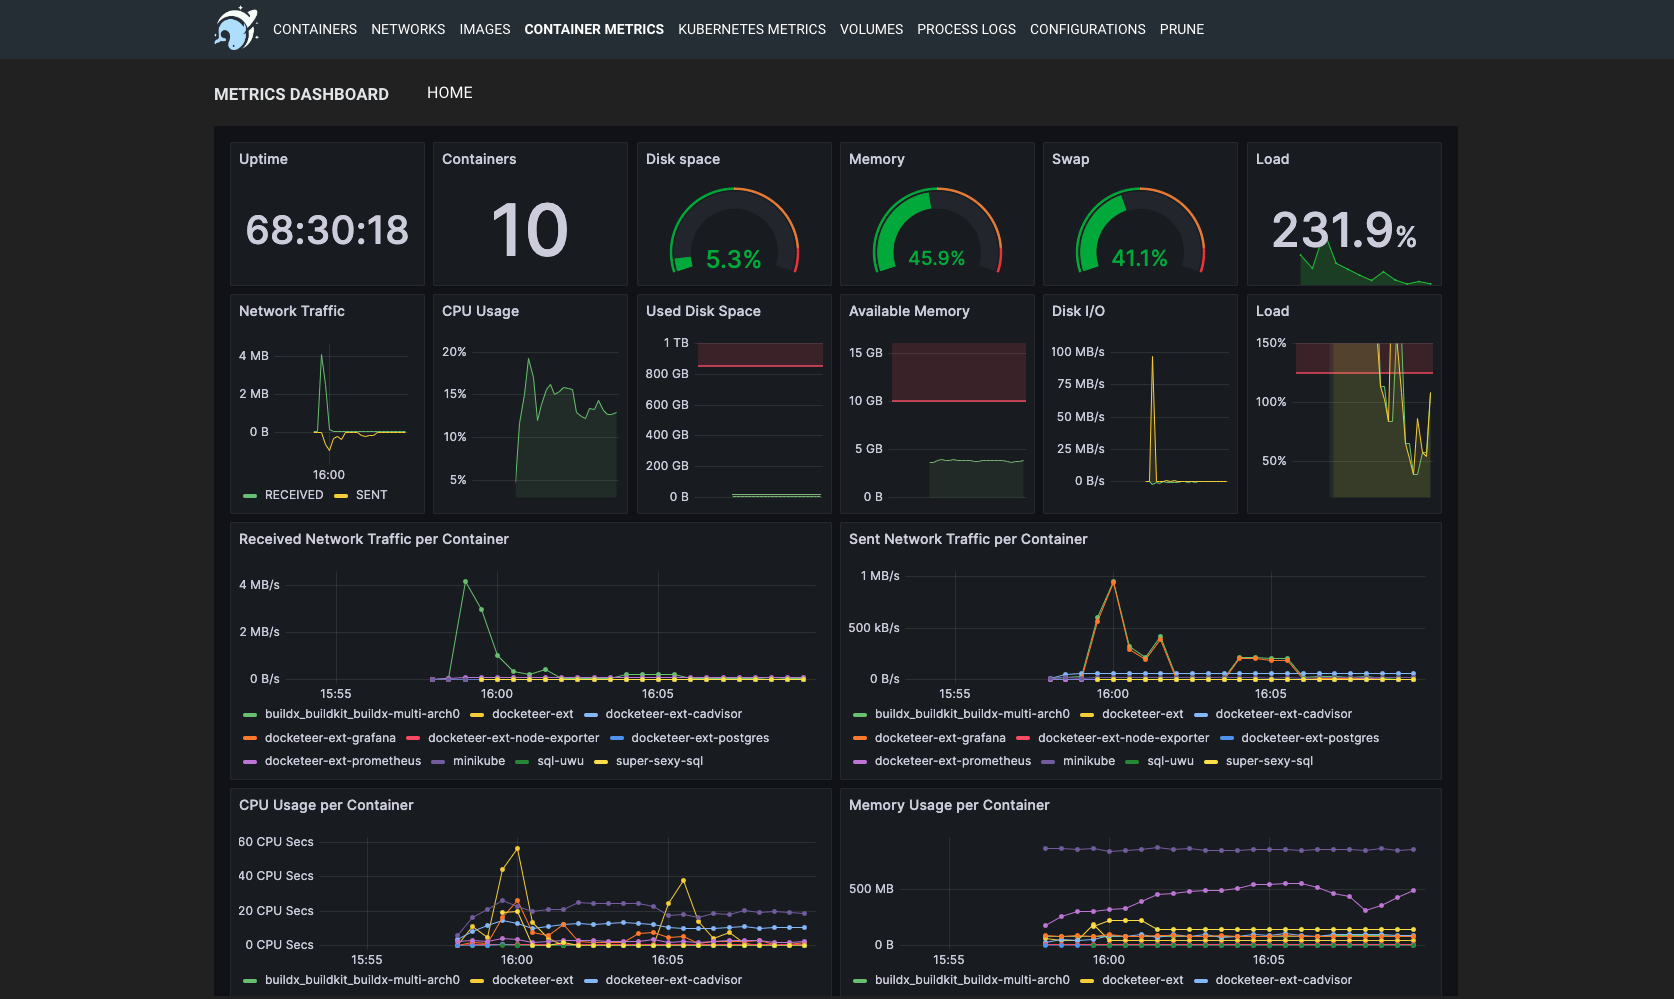
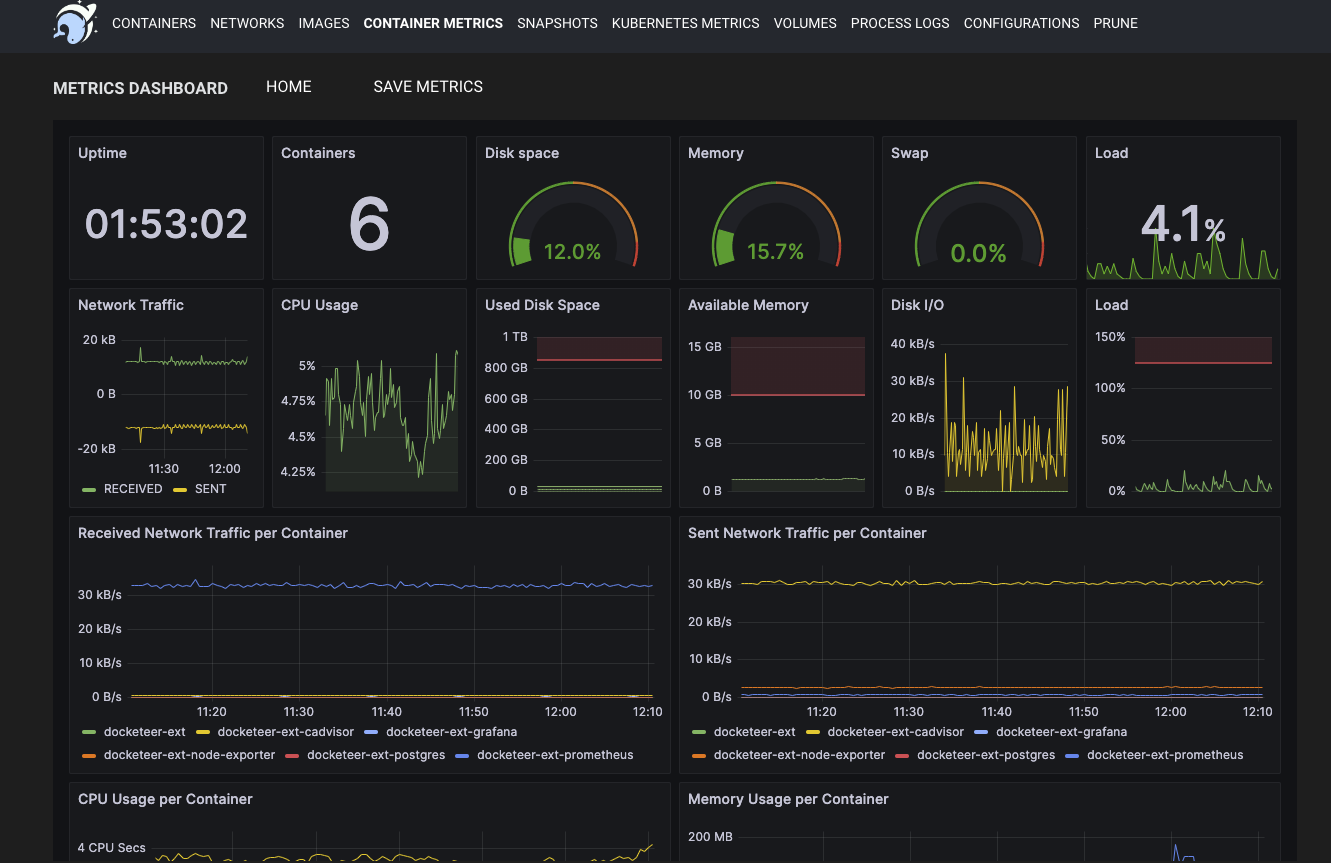
got the saveMetrics routes to work

diff --git a/ui/src/components/Metrics/Snapshots.tsx b/ui/src/components/Metrics/Snapshots.tsx
@@ -45,38 +45,7 @@ const Snapshots = (): JSX.Element => {
       updateDateRight(optionValue)
     }
     console.log('valueSelected', optionValue);
-
-    // getSnapshotDB(optionValue, dropDownSide);
   }
-
-  // const getSnapshotDB = (date, dropDownSide:string) => {
-  //   fetch(`http://localhost:3000/api/saveMetricsEntry/snapshot/${date}`)
-  //     .then((data) => data.json())
-  //     .then((data) => {
-  //       console.log(data)
-  //       displaySnapshot(data, dropDownSide);
-  //     })
-  //     .catch((err) => console.log(err));
-  // }
-  
-  // const displaySnapshot = (metrics, dropDownSide) => {
-  //   const dataArray: JSX.Element[] = [];
-  //   for (const key in metrics) {
-  //     dataArray.push(
-  //       <label>
-  //         <p>
-  //           {key}: {metrics[key]}
-  //         </p>
-  //       </label>
-  //     );
-  //   }
-  //   if (dropDownSide === 'left') {
-  //     updateSnapshotLeft(dataArray);
-  //   }
-  //   else if (dropDownSide === 'right'){
-  //     updateSnapshotRight(dataArray);
-  //   }
-  // }
 
   useEffect(() => {
       getDates();
@@ -99,7 +68,6 @@ const Snapshots = (): JSX.Element => {
         >
           RETRIEVE SNAPSHOT
         </button>
-        {/* <div className={styles.snapshotContent}>{snapshotLeft}</div> */}
         <div className={styles.snapshotContent}>
           <iframe
             className={styles.metrics}
@@ -119,7 +87,6 @@ const Snapshots = (): JSX.Element => {
         >
           RETRIEVE SNAPSHOT
         </button>
-        {/* <div className={styles.snapshotContent}>{snapshotRight}</div> */}
         <div className={styles.snapshotContent}>
           <iframe
             className={styles.metrics}

diff --git a/ui/src/models/docker/ContainerService.ts b/ui/src/models/docker/ContainerService.ts
@@ -62,7 +62,7 @@ export const ContainerService = {
       return {stdout: [], stderr: []};
     }
   },
-  async fetchDates(containerId?: string): Promise<any> {
+  async fetchDates(): Promise<any> {
     try {
       const data = await ddClientRequest(`/api/saveMetricsEntry/date`, 'GET');
       return data;

diff --git a/docs/DevWorkingWithGrafana.md b/docs/DevWorkingWithGrafana.md
@@ -10,7 +10,7 @@
 
 * ***datasources*** tells Grafana where to look for metrics. You'll see that it is already set up to query the Prometheus instance on port 9000 (see the Docketeer Config Diagram in ***/docs/assets/docketeer-config.png***). Do not change this file.
 
-* ***dashboards*** contains our JSON and yaml files that build our dahboards. These are the primary files to edit if you want to change the dashboards or create a new one. The yaml file tells Grafana where to fetch the files to build our dashboards, and what datasource we are using for our panels and queries. Each JSON file will build a seperate dashboard for use to use as an embedded iframe in Docketeer. Currently there are 3: ***dashboard.json*** which is used in the Containers tab, ***docker_metrics.json*** which is used in the Container Metrics tab, and ***k8s-views-nodes.json*** which is used in the Kubernetes Metrics tab. Each JSON file is thousands of lines long, and has many configurations to achieve the graphs we have. To edit, or add panels, the primary method is to navigate to the Grafana and Prometheus endpoints, and to use the Grafana GUI.
+* ***dashboards*** contains our JSON and yaml files that build our dahboards. These are the primary files to edit if you want to change the dashboards or create a new one. The yaml file tells Grafana where to fetch the files to build our dashboards, and what datasource we are using for our panels and queries. Each JSON file will build a seperate dashboard for use to use as an embedded iframe in Docketeer. Currently there are 4: ***dashboard.json*** which is used in the Containers tab, ***docker_metrics.json*** which is used in the Container Metrics tab, ***snapshot-dashboard.json*** which is used in the Snapshot tab, and ***k8s-views-nodes.json*** which is used in the Kubernetes Metrics tab. Each JSON file is thousands of lines long, and has many configurations to achieve the graphs we have. To edit, or add panels, the primary method is to navigate to the Grafana and Prometheus endpoints, and to use the Grafana GUI.
 
 ## Using the Grafana GUI
 
@@ -30,7 +30,7 @@ When running Docketeer in Dev Mode, a Grafana instance is running on the exposed
 
 * To change a panel click on the 3 dots in on the upper right of the metric you want to change. Select "Edit".
 
-* Now we can change our query, visualization, and configurations using the Grafana GUI instead of coding the JSON by hand. When you're done, click apply then save, before navigating back to our dashboard.
+* Now we can change our query, visualization, and configurations using the Grafana GUI instead of coding the JSON by hand. When you're done, click apply then save, before navigating back to our dashboard. 
 
 * You will notice that once you save, the changes will be reflected in Docketeer. However, These changes will not persist if you rebuild Docketeer. To persist these changes on rebuild we will have to edit the JSON of our dashboards.
 
@@ -38,14 +38,16 @@ When running Docketeer in Dev Mode, a Grafana instance is running on the exposed
 
 * Tear down Docketeer, and rebuild to see if the panel has been replaced with your updated one. Sometimes, after tear down, you will need to delete all your images, and delete all volumes except for the prometheus data volume before rebuilding Docketeer in order to make docker rebuild the Grafana instance.
 
-* If you made many changes to many panels, or to the shared settings like timeframe and refresh rate, the JSON process will be slightly different. Click the share button on the Nav Bar, here you can export the entire dashboard ysing different methods. Select "Export" then "View JSON". This is the JSON for the entrie dashboard you have been working on. Select all and copy the JSON. Replacing the whole dashboard JSON will result in an error, so instead you will need to replace the "panels" array. Paste your copied JSON into a seperate VSC window, and callapse the "panels" array to make it easier to copy (in some cases it is thousands of lines long). Callapsed the "panels" array in your dashboard JSON and replace it with your new and improved panels array. Rebuild and your dashboard should be updated with the changes you made.
+* If you made many changes to many panels, or to the shared settings like timeframe and refresh rate, the JSON process will be slightly different. Click the share button on the Nav Bar, here you can export the entire dashboard ysing different methods. Select "Export" then "View JSON". This is the JSON for the entrie dashboard you have been working on. Select all and copy the JSON. Replacing the whole dashboard JSON will result in an error, so instead you will need to replace the "panels" array. Paste your copied JSON into a seperate VSC window, and callapse the "panels" array to make it easier to copy (in some cases it is thousands of lines long). Callapsed the "panels" array in your dashboard JSON and replace it with your new and improved panels array. Rebuild and your dashboard should be updated with the changes you made. 
 
 ## Aditional Notes
 
-* Review the [Grafana Docs](https://grafana.com/docs/grafana/latest/) for details on the configuration files, and working with the JSON settings.
+* Review the [Grafana Docs](https://grafana.com/docs/grafana/latest/) for details on the configuration files, and working with the JSON settings. 
 
 * To see what your Prometheus query is returning, go to the Prometheus endpoint, exposed in the development mode on port 49156. On localhost:49156 you can insert queries and get raw data to confirm any errors you get on the Grafana Visualizer.
 
 * Review the [Prometheus Docs](https://prometheus.io/docs/introduction/overview/) for details on PromQL and Prometheus.
 
 * . Prometheus is scrapping the container data from cAdvisor which is running on port 49158 in development mode. You can visit this in browser to compare any metrics you're fetching in Prometheus or Grafana. See more in the [Prometheus Docs](https://prometheus.io/docs/guides/cadvisor/) and the [cAdvisor Github](https://github.com/google/cadvisor).
+
+* When export dashboards, Grafana tends to create varibles such as {DS_Prometheus} or {DS_Postgres}. If you run into issues regarding this, find the specific uid for by clicking the 3 dots of a specific panel and looking at its JSON.

diff --git a/README.md b/README.md
@@ -61,6 +61,7 @@
     <a href="#about-the-project">About Docketeer</a></li>
     <li><a href="#installation">Installation</a></li>
     <li><a href="#in-development">In Development</a></li>
+    <li><a href="#documentation">Documentation</a></li>
     <li><a href="#contributing">Contributing</a></li> 
     <li><a href="#license">License</a></li>
     <li><a href="#authors">Authors</a></li>
@@ -82,7 +83,8 @@
     <img alt="Containers Page" src="assets\docketeer-containers-page.png" width="fit" height="auto">
     <img alt="Network Page" src="assets\docketeer-network-page.png" width="fit" height="auto">
     <img alt="Container Metrics Page" src="assets\docketeer-metrics-page.png" width="fit" height="auto">
-        <img alt="Kubernates Metrics Page" src="assets\docketeer-kubernetes-metrics-page.png" width="fit" height="auto">
+    <img alt="Kubernates Metrics Page" src="assets\docketeer-kubernetes-metrics-page.png" width="fit" height="auto">
+    <img alt="Snapshot Page" src="assets\docketeer-snapshots-page.png" width="fit" height="auto">
   </div>
 <br />
 
@@ -124,6 +126,24 @@ Docketeer is an open source initiative comprising contributions from dozens of t
 See the [Known Issues Docs](/docs/dev/KnownIssues.md) and [open issues](https://github.com/open-source-labs/Docketeer/issues) for a list of known issues.
 
 <p align="right">(<a href="#readme-top">back to top</a>)</p>
+
+<!-- IN DEVELOPMENT -->
+
+## Documentation
+For more details, please read the ***docs*** folder, which covers the following:
+
+- API 
+- Assets
+- Changelogs (V1-V15)
+- Features 
+  - Configuration.md
+  - Models.md
+- DevGettingStarted.md
+- DevWorkingWithGrafana.md
+- Docketeer16.note.md ***(MOST RECENT CHANGES)***
+- KnownIssues.md
+
+When you are ready to launch, make sure to follow the instructions under ***Makefile***.
 
 <!-- CONTRIBUTING -->
 
@@ -241,7 +261,10 @@ Please ⭐ this project if you found it helpful, thank you!
 - Jonathan Gray [@thejohnny5](https://github.com/thejohnny5) | [LinkedIn](https://www.linkedin.com/in/jonathan-gray-987169183/)
 - Cristian Morales [@Cris-Morales](https://github.com/Cris-Morales) | [LinkedIn](https://www.linkedin.com/in/cmorales-uxr274/)
 - Josh Nelson [@JoshNelson98](https://github.com/JoshNelson98) | [LinkedIn](https://www.linkedin.com/in/josh-nelson-7aba19284/)
-- Christian Lyon [@christianDoesCoding](https://github.com/christianDoesCoding) | [LinkedIn](www.linkedin.com/in/christiandoescoding)
+- Alicia Zhang [@AliciaZ429](https://github.com/AliciaZ429) | [LinkedIn](https://www.linkedin.com/in/alicia-zhang-a1aaa2138/ )
+- Wei Cheng Wang [@weiwang0305](https://github.com/weiwang0305) | [LinkedIn](https://www.linkedin.com/in/wei-cheng-wang-2a92b4120/)
+- Gabriela Pleitez Gomez [@gabyspg](https://github.com/gabyspg) | [LinkedIn](https://www.linkedin.com/in/gabriela-pleitez-gomez)
+- Peter Chung [@peterchung](https://github.com/peterchung) | [LinkedIn](https://www.linkedin.com/in/peterminkichung/)
 
 
 <p align="right">(<a href="#readme-top">back to top</a>)</p>

diff --git a/docs/docketeer16.notes.md b/docs/docketeer16.notes.md
@@ -1,0 +1,19 @@
+# Changelog
+
+## v16.0.0
+#### Features
+* Added ***Save Metric*** button under Container Metrics tab to save 6 key metrics of the container. Key metrics are metric date, diskspace, memory, swap, cpu usage and available memory. Those metrics are saved in PostgreSQL. 
+* Added ***Snapshot*** page. By selecting a timestamp in the dropdown, users can compare the metrics saved in the database. 
+* Added ***Snapshot test*** dashboard in Grafana for display the metrics visualization. (see /imageConfigs/grafana/provisioning/dashboards/snapshot-dashboard.json)
+* Added ***configurations*** to connect Grafana dashboard and PostgreSQL (see /imageConfigs/grafana/provisioning/datasources/srcPostgres.yml)
+
+
+#### Dev Features
+
+#### Bug Fixes
+* Fixed all frontend ***testing*** files to make sure the components are being rendered. Testings include Container tab, Image tab, Metric tab, Network tab, Volume tab and Reducers. 
+* Fixed all server ***testing*** files to make sure all the routes are functioning as expected. Testing include Network Routes
+
+#### Misc. Fixes and Cleaning
+* Added ***Typescript*** to new features and fixed some Typescript on previous codebase.
+* Added additional information to ***Documentation*** to help with later iterations.

diff --git a/docs/KnownIssues.md b/docs/KnownIssues.md
@@ -1,0 +1,5 @@
+* ***Important***: DO NOT USE CORS IN THE BACKEND! It will mess up the ddClientRequests. 
+
+* Not all of the backend endpoints are being used currently as they were not built out on the frontend
+* The Configuration Tab currently only reads and writes to the database, need both update and delete
+* The purpose of the Configuration Tab is to configure Prometheus endpoints that the app can scrape. This needs to be set up on the backend. When an endpoint is added to the configuration database, a .yml file needs to be generated for the new endpoint (see the imageConfigs/prometheus/prometheus.yml on how this file looks). The prometheus container then must be reloaded pointing to the new configuration file. This should allow prometheus to scrape from this new config file. 

diff --git a/docs/changelog.v1-15/docketeer15.notes.md b/docs/changelog.v1-15/docketeer15.notes.md
@@ -6,8 +6,7 @@
 * Changed ***Metrics*** tab dashboard (see imageConfigs/grafana/provisioning/docker_metrics.json)
 * Added ***Kubernetes Metrics*** tab for monitoring nodes running on a kubernetes cluster (see imageConfigs/grafana/provisioning/k8s-view-nodes.json)
 * Added ability to search through container logs based on timeframe, as well as keywords and select-all functionality
-* Added a Home button to the Container and K8 Metrics Tabs so users can return to the dashboard after viewing indivi
-ual panels
+* Added a Home button to the Container and K8 Metrics Tabs so users can return to the dashboard after viewing individual panels
 
 #### Dev Features
 * Fixed backend API and added documentation (docs/api/openapi.yml)
